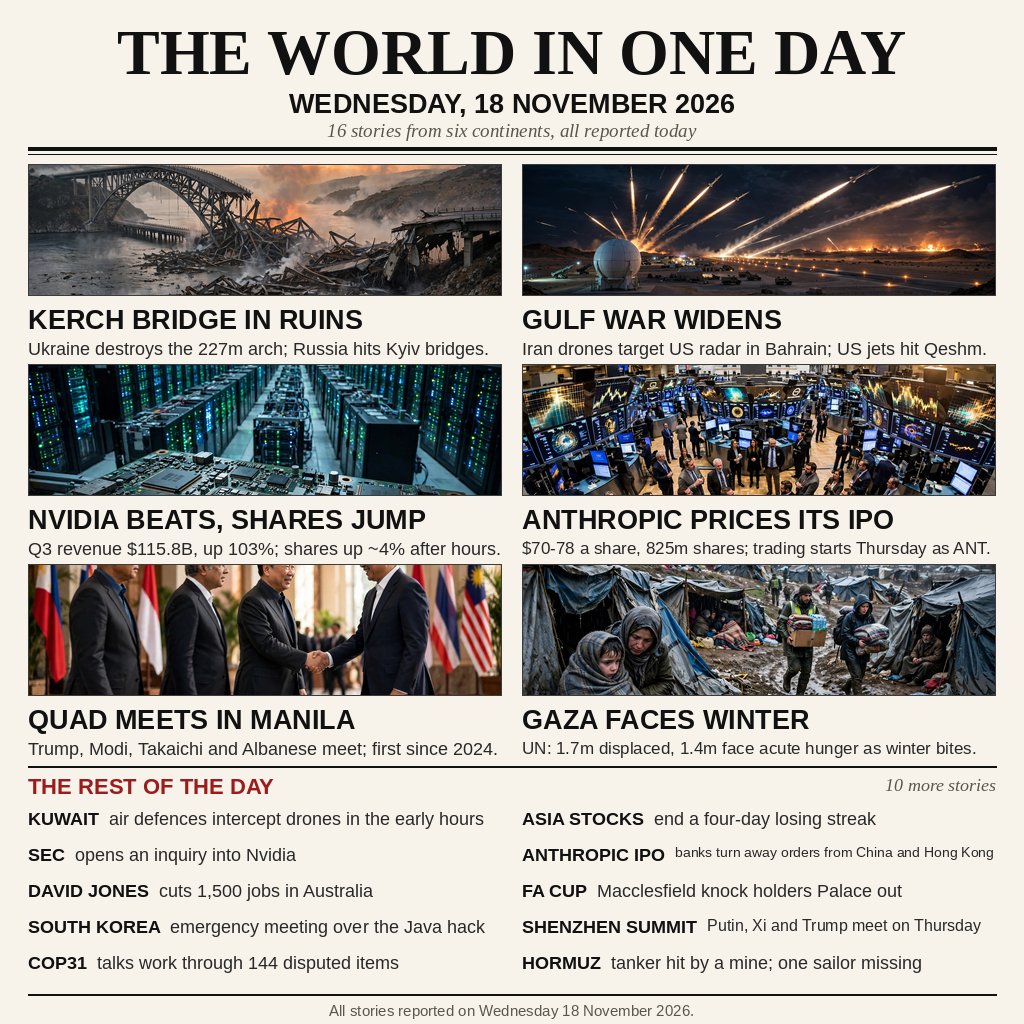
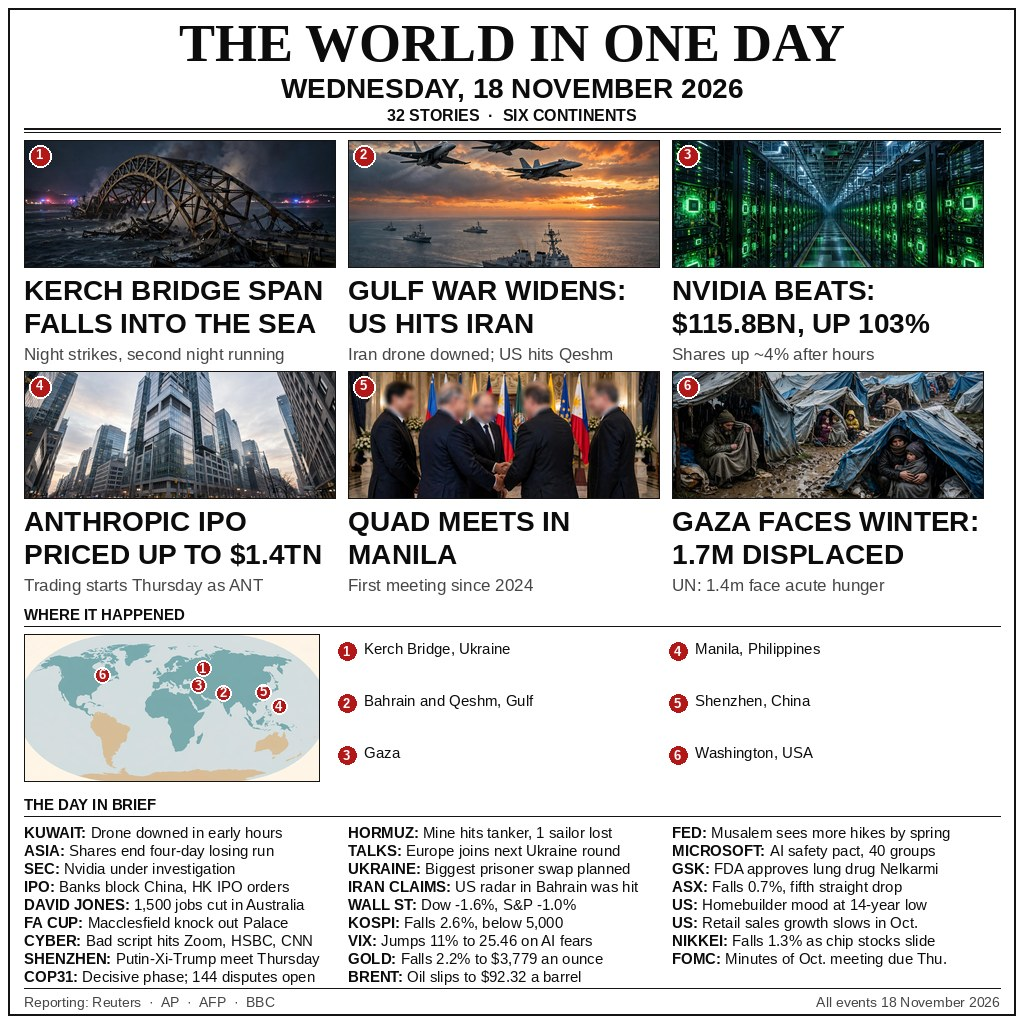
news-image-20261118 round 3: synthesis front page, 6 leads + map + 26 briefs

diff --git a/main.py b/main.py
@@ -1,28 +1,29 @@
 #!/usr/bin/env python3
-"""Round 2 entry for make.fun news-image-20261118.
+"""news-image-20261118 round 3: entry point.
 
-Copies the front-page image vendored in this repository to the output
-directory, byte for byte. Standard library only, no network, deterministic.
+The entry is one pre-rendered newspaper front page, entry.png
+(JPEG bytes, 1024x1024), drawn by build.py in the sibling build
+directory from generated photos and a generated world map, with all
+text rendered on top. This program does nothing but copy that file
+into the output directory, byte for byte.
+
+It uses only the standard library, touches no network, and holds no
+state, so two runs always write the same bytes.
 """
 import os
 import shutil
-import sys
 
 HERE = os.path.dirname(os.path.abspath(__file__))
-SRC = os.path.join(HERE, "entry.png")
+SOURCE = os.path.join(HERE, "entry.png")
 
 
 def main():
-    out_dir = os.environ.get("MAKEFUN_OUTPUT_DIR", "/output")
-    os.makedirs(out_dir, exist_ok=True)
-    dest = os.path.join(out_dir, "entry.png")
-    if os.path.getsize(SRC) > 1024 * 1024:
-        print("vendored image exceeds the 1 MiB limit", file=sys.stderr)
-        return 1
-    shutil.copyfile(SRC, dest)
-    print("wrote", dest, os.path.getsize(dest), "bytes")
-    return 0
+    target_dir = os.environ.get("MAKEFUN_OUTPUT_DIR", "/output")
+    os.makedirs(target_dir, exist_ok=True)
+    target = os.path.join(target_dir, "entry.png")
+    shutil.copyfile(SOURCE, target)
+    print("wrote %s" % target)
 
 
 if __name__ == "__main__":
-    sys.exit(main())
+    main()

diff --git a/README.md b/README.md
@@ -4,7 +4,7 @@
 [![rank](https://make.fun/badge/news-image-20261118/midx-crypto/news-image-20261118/rank.svg)](https://make.fun/bounty/news-image-20261118/leaderboard?utm_source=github&utm_medium=readme&utm_campaign=news-image-20261118)
 [![reward](https://make.fun/badge/news-image-20261118/midx-crypto/news-image-20261118/reward.svg)](https://make.fun/bounty/news-image-20261118?utm_source=github&utm_medium=readme&utm_campaign=news-image-20261118)
 
-Round 2: a photo-led broadsheet for Wednesday 18 November 2026. Six big picture-led stories carry the day — the Kerch bridge destroyed, the Gulf war widening, Nvidia's record quarter, Anthropic pricing its IPO, the Quad meeting in Manila, and Gaza facing winter — with ten more stories in a short briefs rail below. Sixteen stories in all, every headline and deck kept large enough to read at thumbnail size. The six photographs were generated for this entry and carry no baked-in text; all wording is drawn on top. The program copies the vendored image to /output/entry.png byte for byte, so both runs write identical bytes with no network.
+Round 3: a synthesis front page for Wednesday 18 November 2026 — the breadth of round 1 with the legibility discipline of round 2. Six big picture-led stories carry the day: the Kerch bridge span falling into the sea, the Gulf war widening, Nvidia's record quarter, Anthropic pricing its IPO, the Quad meeting in Manila, and Gaza facing winter. Below them a numbered world-map strip pins each story to its place, and 26 one-line briefs across regions and beats fill out the day. Thirty-two stories in all, every headline kept at 28px or larger and every brief at 15px on a single line, so the page stays readable at thumbnail size. The six photographs and the map were generated for this entry and carry no baked-in text; all wording is drawn on top. The program copies the vendored image to /output/entry.png byte for byte, so both runs write identical bytes with no network.
 
 ## Run it
 
